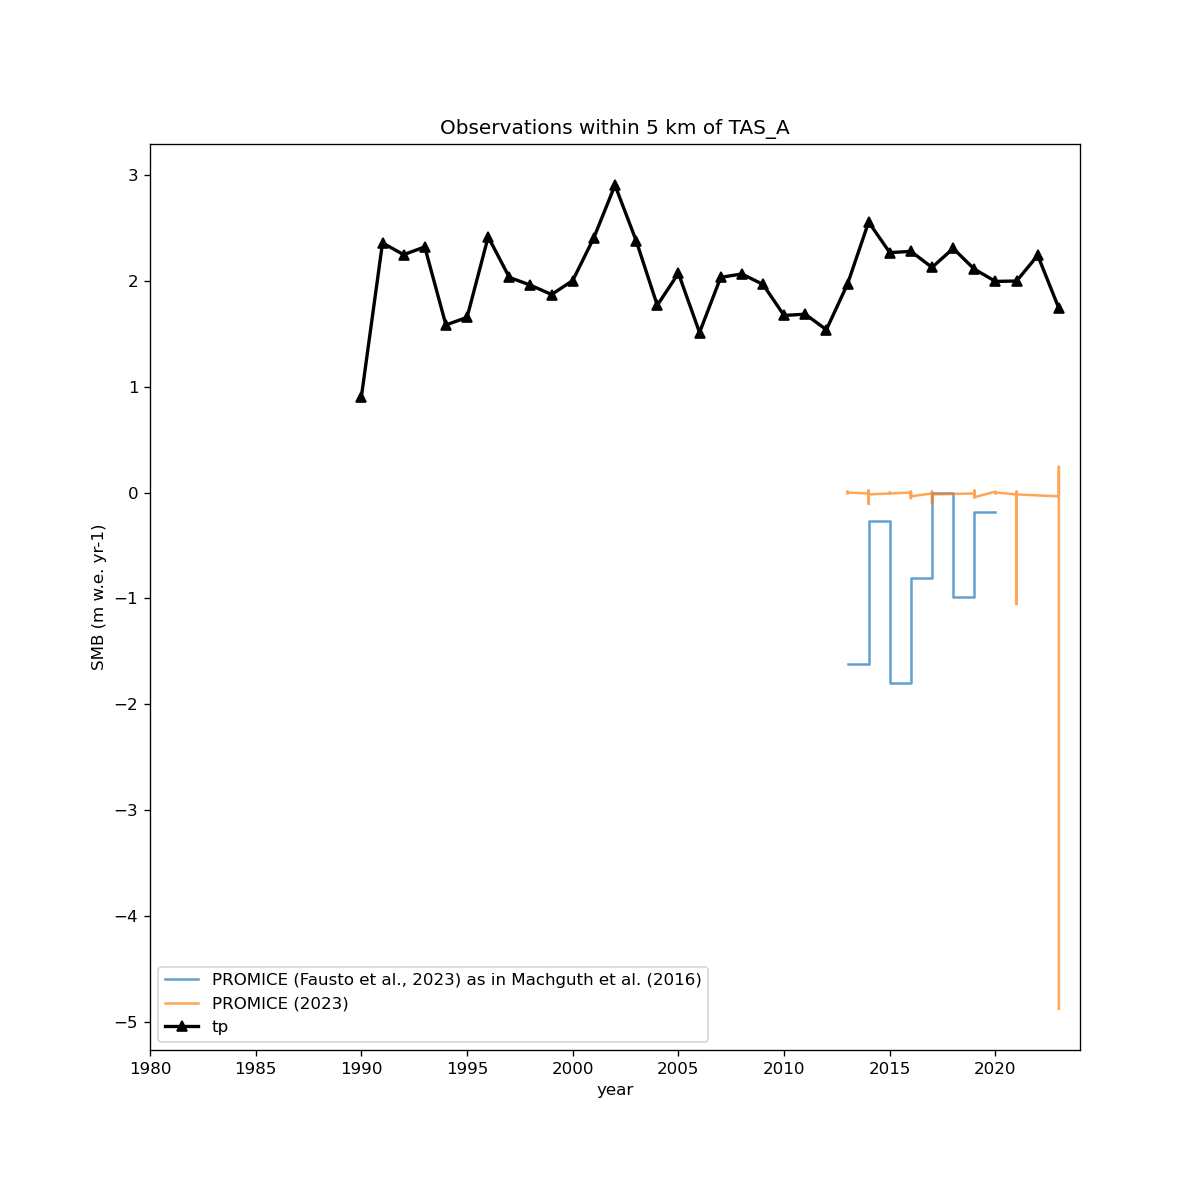
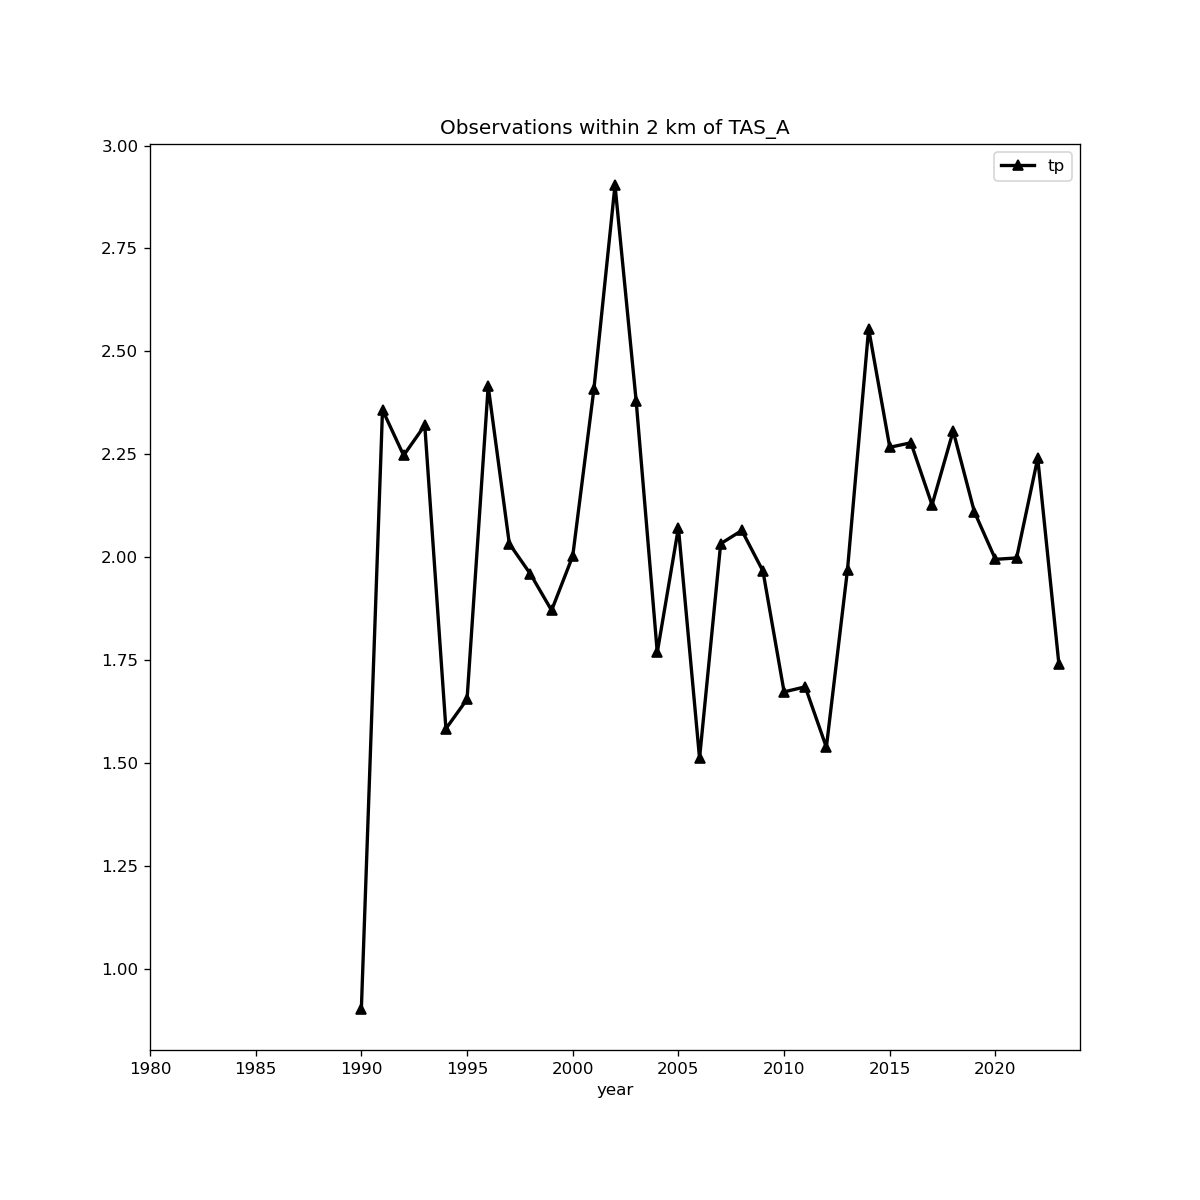
code update

diff --git a/CARRA_evaluation_precipitation.py b/CARRA_evaluation_precipitation.py
@@ -87,7 +87,7 @@ for lat_aws, lon_aws in zip(aws_ds.latitude.values, aws_ds.longitude.values):
     query_point = [[lat_aws, lon_aws]] # NGRIP
     all_points = df_meta[['latitude', 'longitude']].values
     df_meta['distance_from_query_point'] = distance.cdist(all_points, query_point, get_distance)
-    min_dist = 5 # in km
+    min_dist = 2 # in km
     df_meta_selec = df_meta.loc[df_meta.distance_from_query_point<min_dist, :]   
        
     # % plotting individual smb records
@@ -164,21 +164,9 @@ for station in ['KAN_M', 'QAS_M', 'QAS_U','TAS_A','THU_U2']:
     
     all_points = df_meta[['latitude', 'longitude']].values
     df_meta['distance_from_query_point'] = distance.cdist(all_points, query_point, get_distance)
-    min_dist = 15 # in km
+    min_dist = 3 # in km
     df_meta_selec = df_meta.loc[df_meta.distance_from_query_point<min_dist, :]   
-    
-    
-    # plotting coordinates
-    # plt.figure()
-    # df_meta[['latitude','longitude']].plot.scatter(ax=plt.gca(),
-    #                                                 x='longitude',y='latitude')
-    # plt.gca().plot(np.array(query_point)[:,1],
-    #             np.array(query_point)[:,0], marker='^', 
-    #             ls='None', label='target',
-    #             color='tab:red')
-    # df_meta_selec.plot(ax=plt.gca(), x='longitude', y='latitude',
-    #               label='closest', marker='d',ls='None', color='tab:orange')
-    # plt.legend()
+
     
     fig = plt.figure(figsize=(10,10))
     print(station)
@@ -189,8 +177,8 @@ for station in ['KAN_M', 'QAS_M', 'QAS_U','TAS_A','THU_U2']:
             tmp = df_sumup.loc[df_sumup.name==n,:]
             for start, end, smb, ref_short in zip(tmp.start_date, tmp.end_date, tmp.smb, tmp.reference_short):
                 if smb>0.5:
-                    if start>pd.to_datetime('2018-01-01'):
-                        print('   ',start,end, np.round(smb*1000),ref_short)
+                    if start>pd.to_datetime('2010-01-01'):
+                        print('   ',start,end, np.round(smb*1000),ref_short, tmp.loc[tmp.smb==smb,'name'].item())
                         plt.plot([end, end], [0, smb*1000],
                                   color = cmap(count),
                                   marker='o',
@@ -200,30 +188,25 @@ for station in ['KAN_M', 'QAS_M', 'QAS_U','TAS_A','THU_U2']:
     df_sf.SWE_mweq = df_sf.SWE_mweq -  df_sf.loc[ df_sf.SWE_mweq.first_valid_index(), 'SWE_mweq']
 
     df_sf.SWE_mweq.plot(ax=plt.gca(), marker='o', label='SnowFox')
-    (aws_ds.where(aws_ds.name==station,drop=True).isel(station=0)['Snowfallmweq']
-     .to_dataframe().Snowfallmweq.loc[start_carra:'2019-05-01']
-     .cumsum()).plot(ax=plt.gca(), c='k', label='CARRA (tp when t2m>0)')
-    (aws_ds.where(aws_ds.name==station,drop=True).isel(station=0)['Snowfallmweq_2']
-     .to_dataframe().Snowfallmweq_2.loc[start_carra:'2019-05-01']
-     .cumsum()).plot(ax=plt.gca(), c='tab:red', label='CARRA (tp-tirf)')
-    if df_sf.index.year[-1]==2020:
-        (aws_ds.where(aws_ds.name==station,drop=True)
-         .isel(station=0)['Snowfallmweq'].to_dataframe()
-         .Snowfallmweq.loc['2019-08-12':'2020-05-01']
-         .cumsum()).plot(ax=plt.gca(),c='k', label='__nolegend__')
-        (aws_ds.where(aws_ds.name==station,drop=True)
-         .isel(station=0)['Snowfallmweq_2'].to_dataframe()
-         .Snowfallmweq_2.loc['2019-08-12':'2020-05-01']
-         .cumsum()).plot(ax=plt.gca(),c='tab:red', label='__nolegend__')
+    for year in range(2010,2024):
+
+        (aws_ds.where(aws_ds.name==station,drop=True).isel(station=0)['Snowfallmweq_2']
+         .to_dataframe().Snowfallmweq_2.loc[str(year)'-05-01']:str(year+1)+'-05-01']
+         .cumsum()).plot(ax=plt.gca(), c='tab:red', 
+                         label='CARRA (tp-tirf)' if year==2010 else '__nolegend__')
+    # if df_sf.index.year[-1]==2020:
+    #     (aws_ds.where(aws_ds.name==station,drop=True)
+    #      .isel(station=0)['Snowfallmweq'].to_dataframe()
+    #      .Snowfallmweq.loc['2019-08-12':'2020-05-01']
+    #      .cumsum()).plot(ax=plt.gca(),c='k', label='__nolegend__')
+    #     (aws_ds.where(aws_ds.name==station,drop=True)
+    #      .isel(station=0)['Snowfallmweq_2'].to_dataframe()
+    #      .Snowfallmweq_2.loc['2019-08-12':'2020-05-01']
+    #      .cumsum()).plot(ax=plt.gca(),c='tab:red', label='__nolegend__')
     plt.title(station)
     plt.legend()
 
-    plt.title('Observations within '+str(min_dist)+' km of '+ station)
-    # fig.savefig('figures/precipitation/'+  \
-    #             (aws_ds
-    #              .where((aws_ds.latitude==lat_aws) & (aws_ds.longitude==lon_aws), 
-    #                     drop=True)
-    #              .name.values[0])  \
-    #                 +'.png', dpi=120)
+    plt.title(station)
+    fig.savefig('figures/precipitation/'+  station +'_snowfox.png', dpi=240)
 
 
